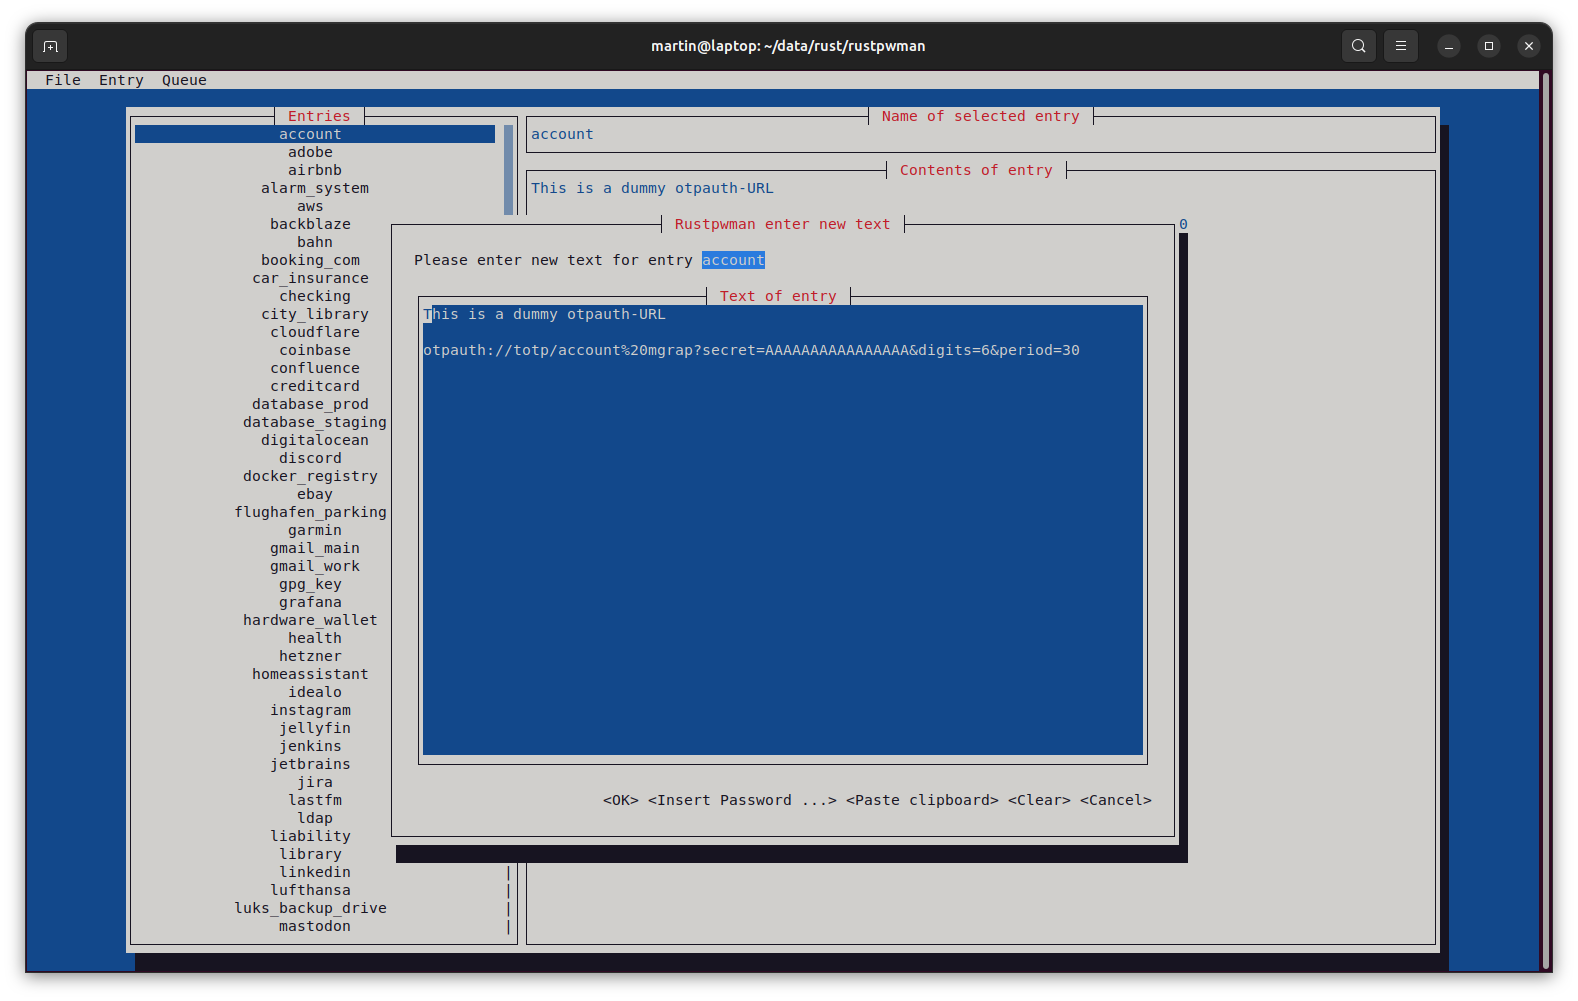
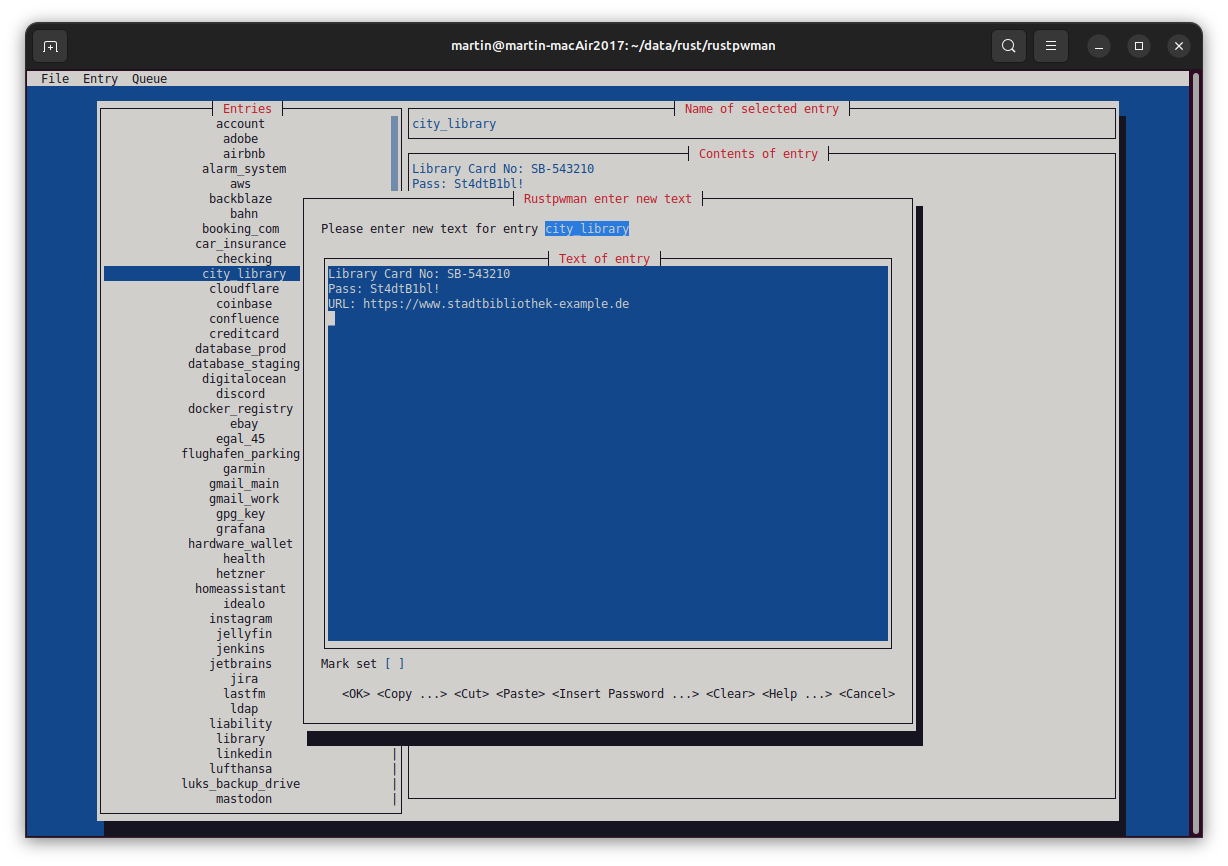
Update documentation

Changed region(s): [[0.0, 0.0, 0.9902, 0.9977]]

diff --git a/src/modtui/edit.rs b/src/modtui/edit.rs
@@ -302,7 +302,7 @@ pub fn entry(s: &mut Cursive, state_for_edit_entry: Arc<Mutex<AppState>>, entry_
         refocus_dlg_element(s, DLG_EDIT, TEXT_AREA_NAME);
     })
     .button("Help ...", move |s| { 
-        show_message(s, "Use F8 to set a mark at the current cursor position.\n\nThen use Copy ... or Cut ... to cut or copy\nall text between the mark and the current cursor position.\n\nThe character at the start position is part of the selection.\nThe character at the end position is not.\n\nPress F9 to reset the mark.");
+        show_message(s, "Use F8 to set a mark at the current cursor position.\n\nThen use <Copy ...> or <Cut> to cut or copy all text\nbetween the mark and the current cursor position.\n\nThe character at the start position is part of the selection.\nThe character at the end position is not.\n\nPress F9 to reset the mark.");
         refocus_dlg_element(s, DLG_EDIT, TEXT_AREA_NAME);
     })    
     .button("Cancel", move |s| { 

diff --git a/README.md b/README.md
@@ -123,7 +123,12 @@ the file is saved. I.e. if the header is `Entries *` then there are unsaved chan
 ### Edit entry
 
 This menu entry allows to manually edit the value or contents of the currently selected password entry. After the edit dialog opens you can additionally either generate a random
-password and insert it at the current cursor position or insert the current contents of the clipboard at that position.
+password and insert it at the current cursor position or insert the current contents of the clipboard at that position. Additionally you can cut or copy part of the entry's
+text into the clipboard. Use `F8` to set a so called mark which defines the start position of a selection. Then move the cursor to the end position of the selection. After
+that click on `Copy ...` or `Cut` to copy or cut the selected text into the clipboard. The selected text includes the character at the leftmost position of the selection but
+excludes the character at the rightmost. You can manually clear the mark by pressing `F9`. The mark is also cleared after a sccessfull copy or cut operation or if the entry's
+text is changed. Whether a mark is currently set can be deduced from the checkbox next to the text `Mark set`. You can click on `Help ...` to get an explanantory text about copy
+and cut while running `rustpwman`.
 
 ![](/edit.png?raw=true "Screenshot of edit entry dialog")
 
